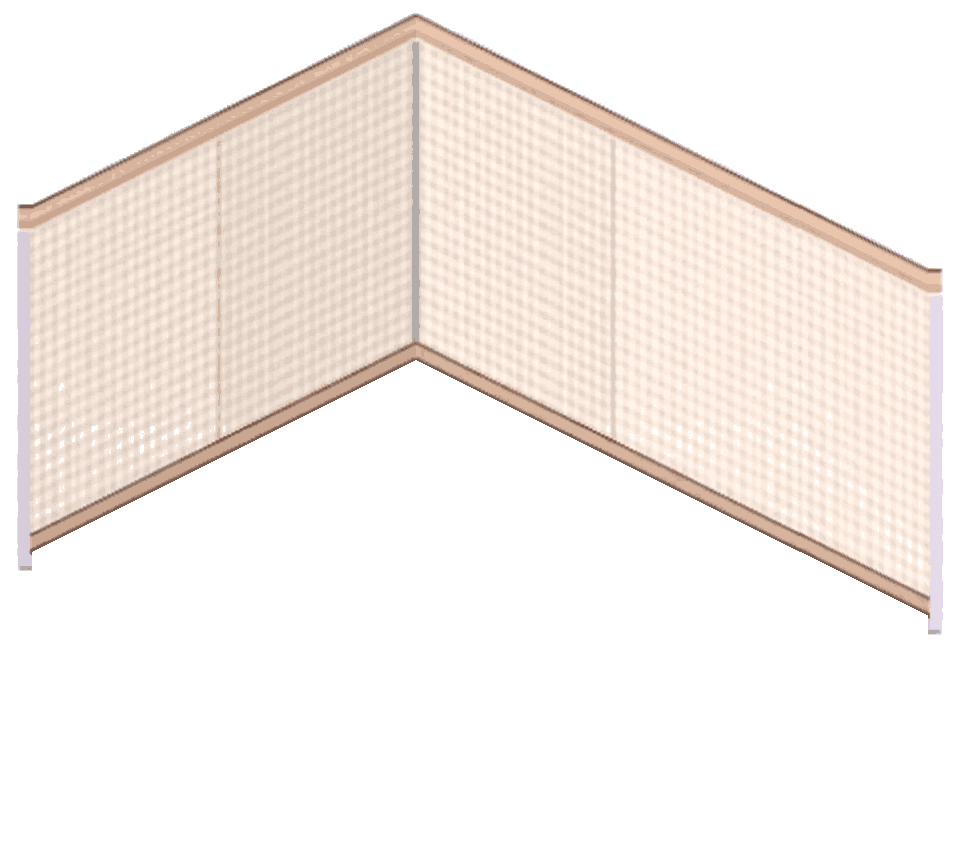
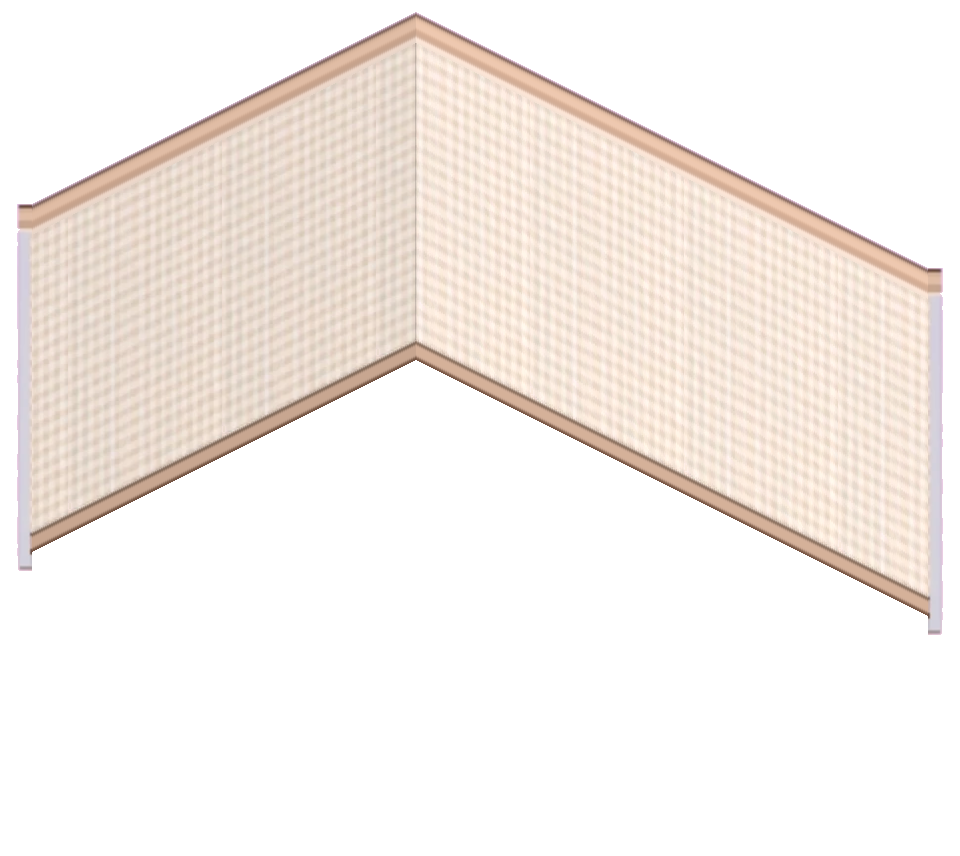
Room decorating: seamless wallpapers across the corner, clean molding and caps

diff --git a/assets/furniture/README.md b/assets/furniture/README.md
@@ -171,7 +171,7 @@ AI 그림 생성에 쓸 요청문은 [PROMPTS.md](PROMPTS.md)에 있습니다.
 - 빈 방 틀(1024×876, 8×6칸) 그대로 칠한 방 그림을 받으면 `tools/room-skin.cjs`가 벽과 바닥을 떼어 `assets/room/wall_<id>.webp` · `floor_<id>.webp`(방 캔버스 960×856과 같은 크기, 그 부분만 그려짐)와 목록용 `*_t.webp`를 만듭니다.
   `node tools/room-skin.cjs <방 그림> --id <이름> --part wall|floor`
 - 바닥 세 꼭짓점(뒤·왼쪽·앞)으로 한 번에 옮기므로 비율은 그대로입니다. 벽 그림에는 몰딩·걸레받이·벽 끝 단면이, 바닥 그림에는 바닥 판 두께가 같이 들어 있어 벽지와 바닥을 서로 다른 샘플끼리 섞어도 됩니다.
-- **벽지는 양쪽 벽을 같은 무늬로**: `--side left|right`로 한쪽 벽 무늬를 양쪽에 칠함(모서리 기준 대칭, 오른쪽 벽 6~8칸은 되접음, 왼쪽 벽은 0.94배 그늘). 샘플 양쪽 벽지가 다르면 둘로 나눠 만듦.
+- **벽지는 양쪽 벽을 같은 무늬로**: `--side left|right`로 한쪽 벽 무늬를 양쪽에 칠함. 무늬 반복 간격을 재서 모서리를 지나 반대쪽 벽까지 그대로 이어 붙임(촘촘한 무늬는 이음선 없는 깨끗한 구간 하나로 채우고, 꽃무늬처럼 규칙 없는 무늬는 덜 어긋나는 선을 따라 이음). 몰딩·걸레받이는 높이별 대표색으로 반듯하게 다시 그리고, 왼쪽 벽은 0.94배 그늘, 모서리엔 얇은 그늘선. 샘플 양쪽 벽지가 다르면 둘로 나눠 만듦.
 - 등록은 `HOME_SKINS`에 한 줄. 산 것은 `stu.home.skins`('wall:<id>'), 지금 쓰는 것은 `stu.home.wall` · `stu.home.floor`에 저장됩니다.
 
 | part | id | 이름 | 샘플 |
